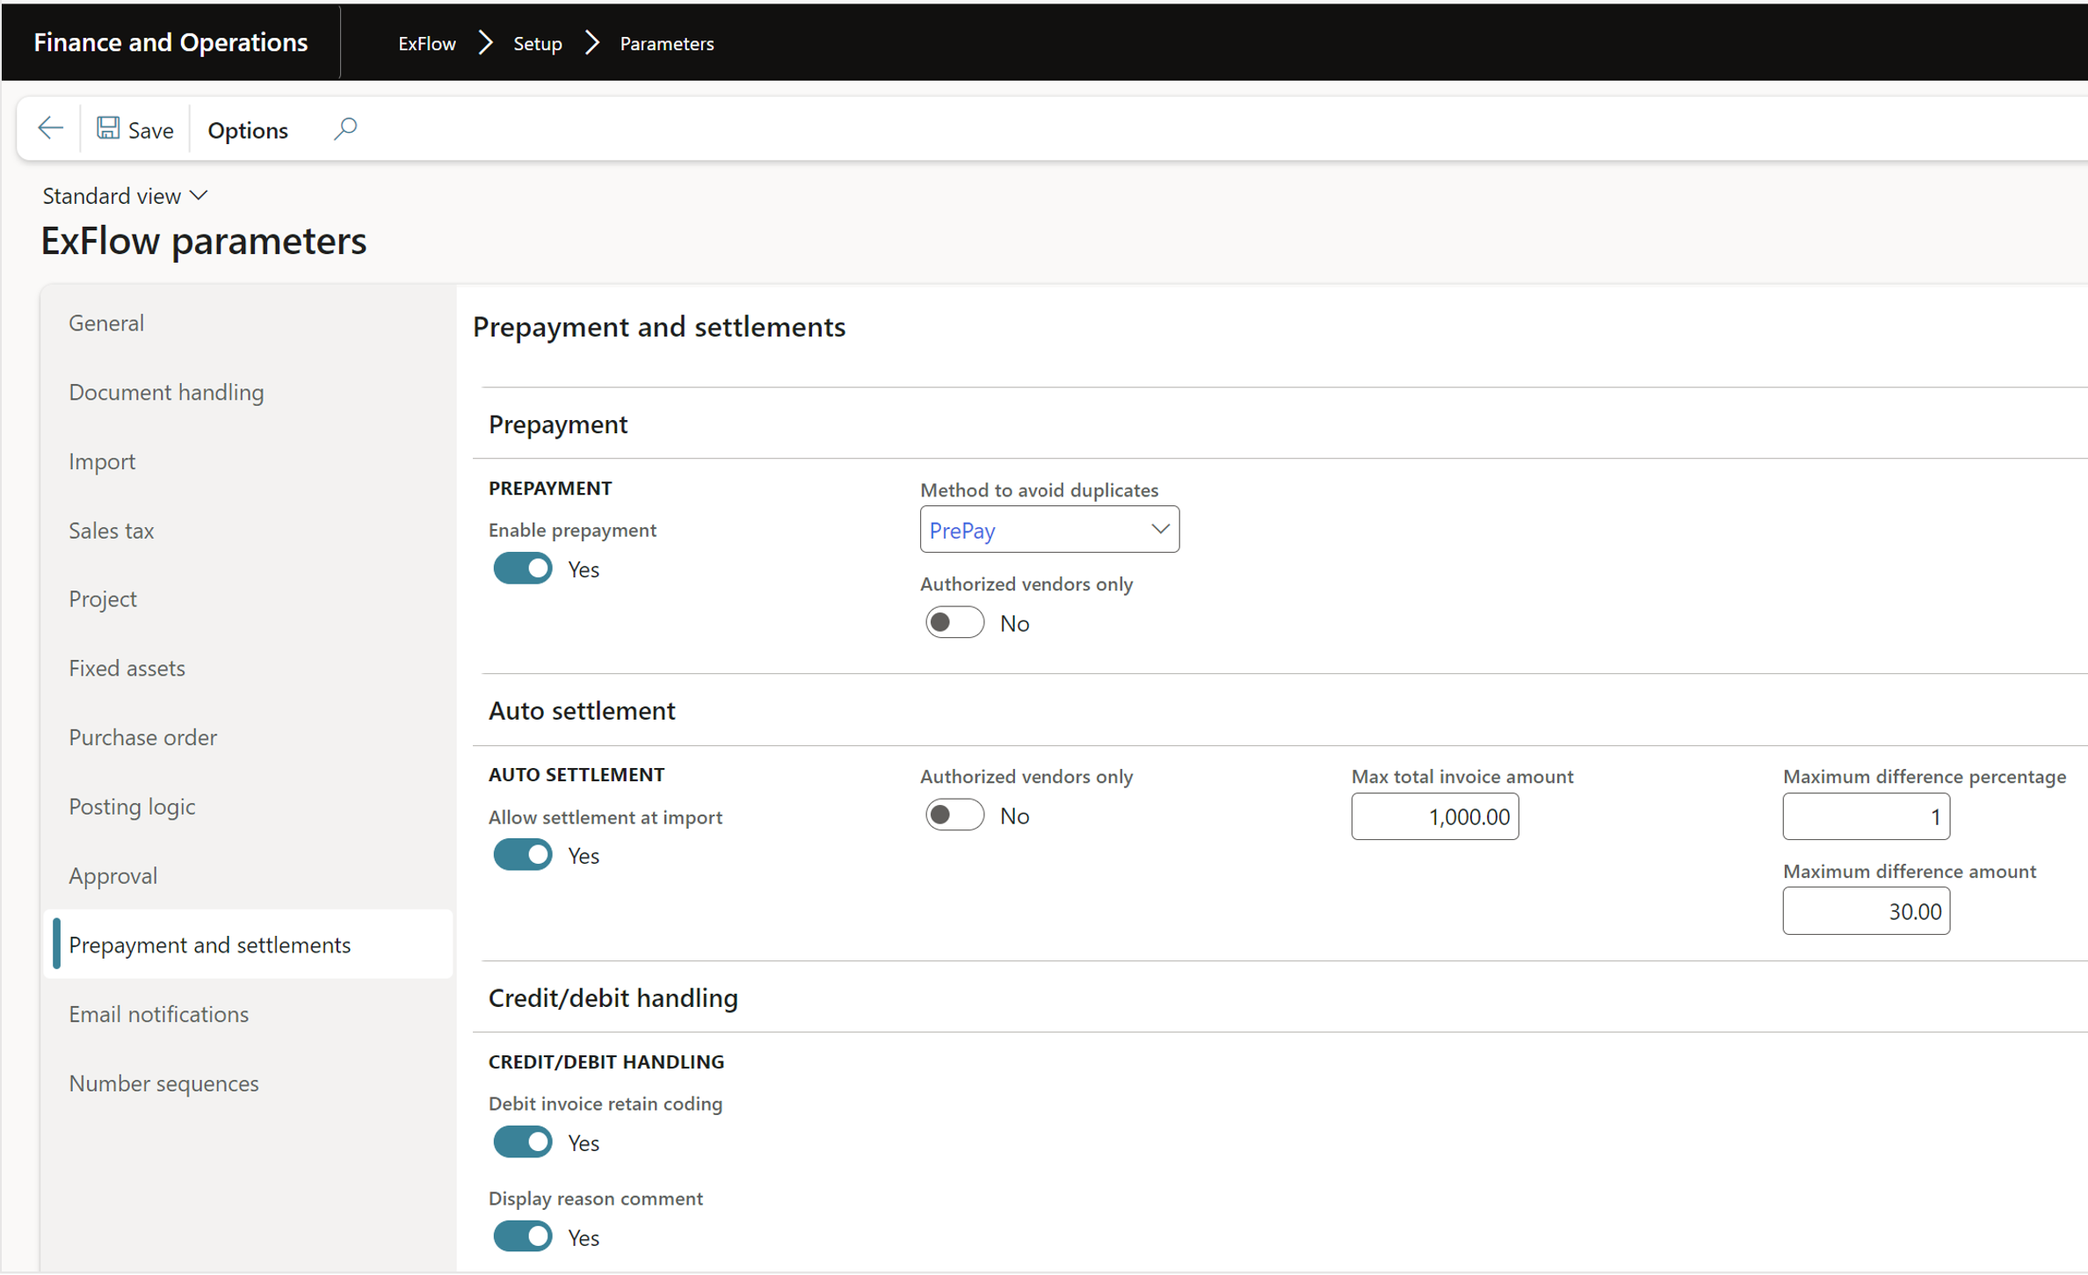
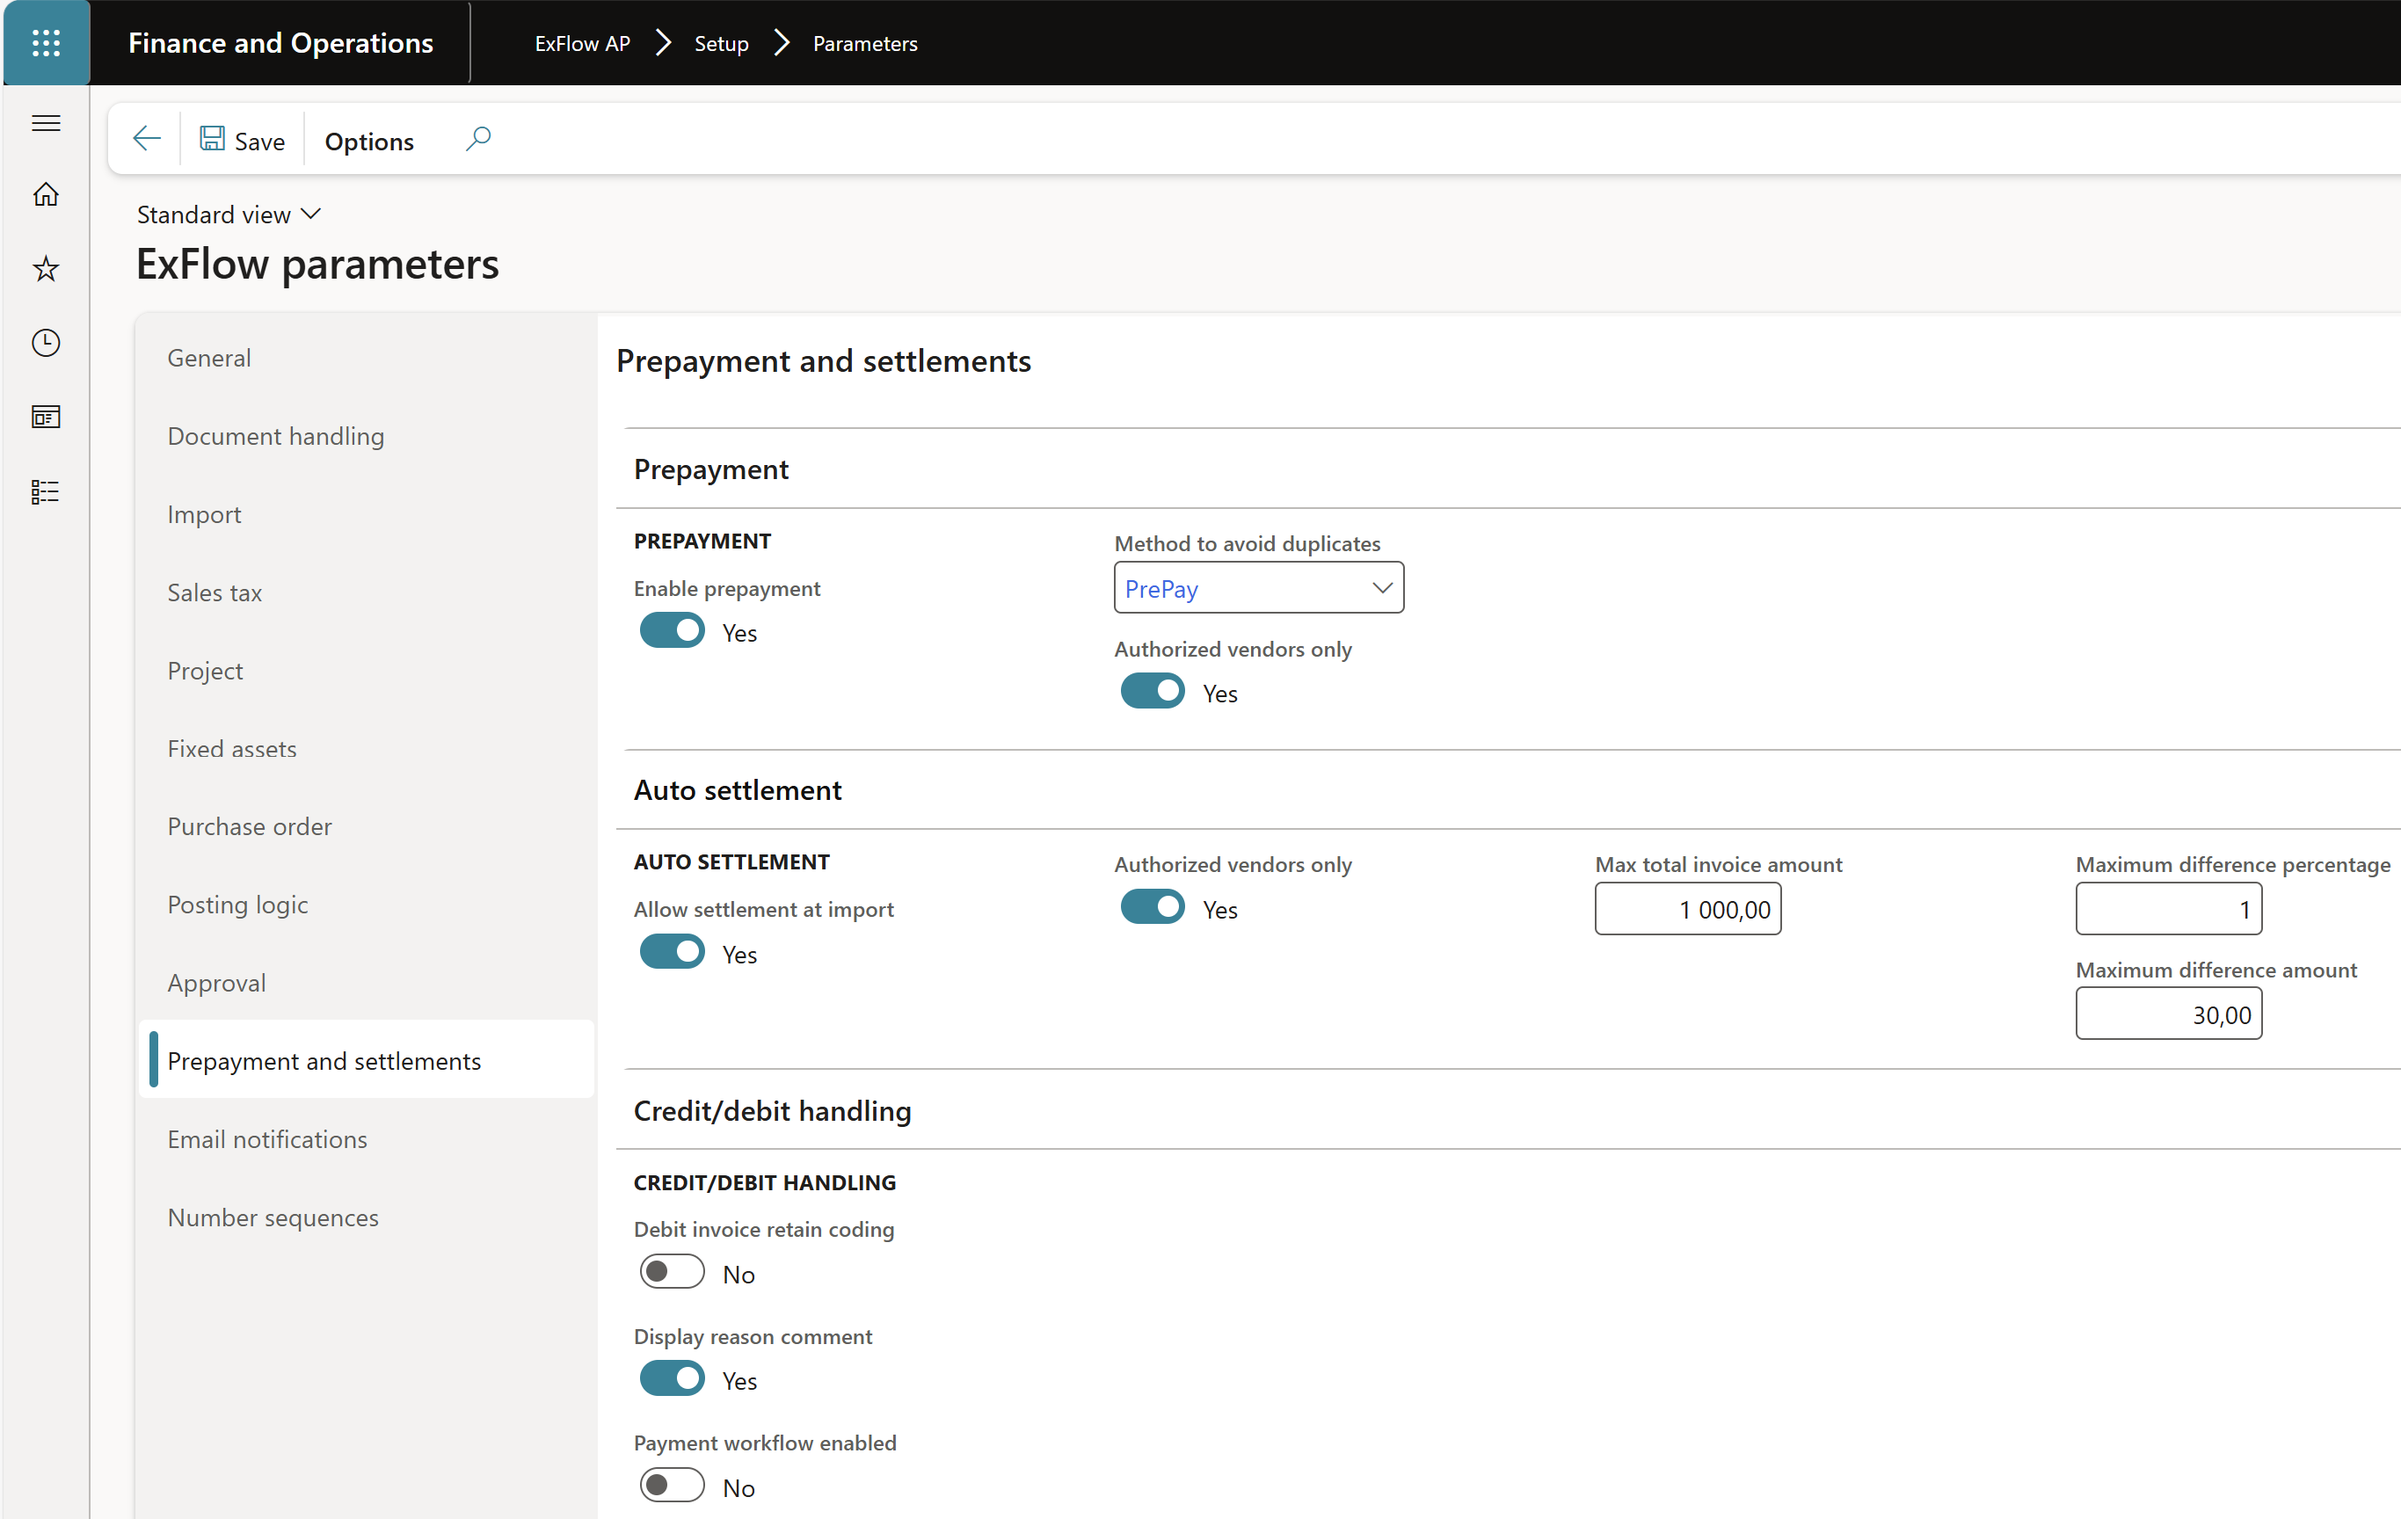
update2506024

diff --git a/docs/user-manual/3-get-started/7-parameters.md b/docs/user-manual/3-get-started/7-parameters.md
@@ -349,6 +349,7 @@ All three parameters above have different options: Exflow provides flexibility i
 |Maximum difference amount| The maximum difference in amount that are allowed between the debit and credit invoice for a settlement to be carried out.|
 |Debit invoice retain coding| If the parameter “Debit invoice retain coding” is set true (Yes) then the lines will retain the coding making the invoice an exact copy. If it is set to false (No), the invoice should be created with the same lines as the original invoice but without coding.|
 |Display reason comment| If enabled, it is mandatory to add the reason comment.|
+|Payment workflow enabled| Enables the Payment workflow functionality common used in Belgium. More detailed info |
 
 
 ### Email notification - Deprecated feature

diff --git a/docs/user-manual/18-workflows/1-workflows/11-exFlow-invoice-payment.md b/docs/user-manual/18-workflows/1-workflows/11-exFlow-invoice-payment.md
@@ -1,0 +1,8 @@
+---
+title: Invoice payment workflow
+sidebar_position: 11
+hide_title: true
+custom_edit_url: null
+---
+## Workflow for variance amounts 
+<button class="pdf-button" onClick={() => { print(); }}>Save as PDF</button>
